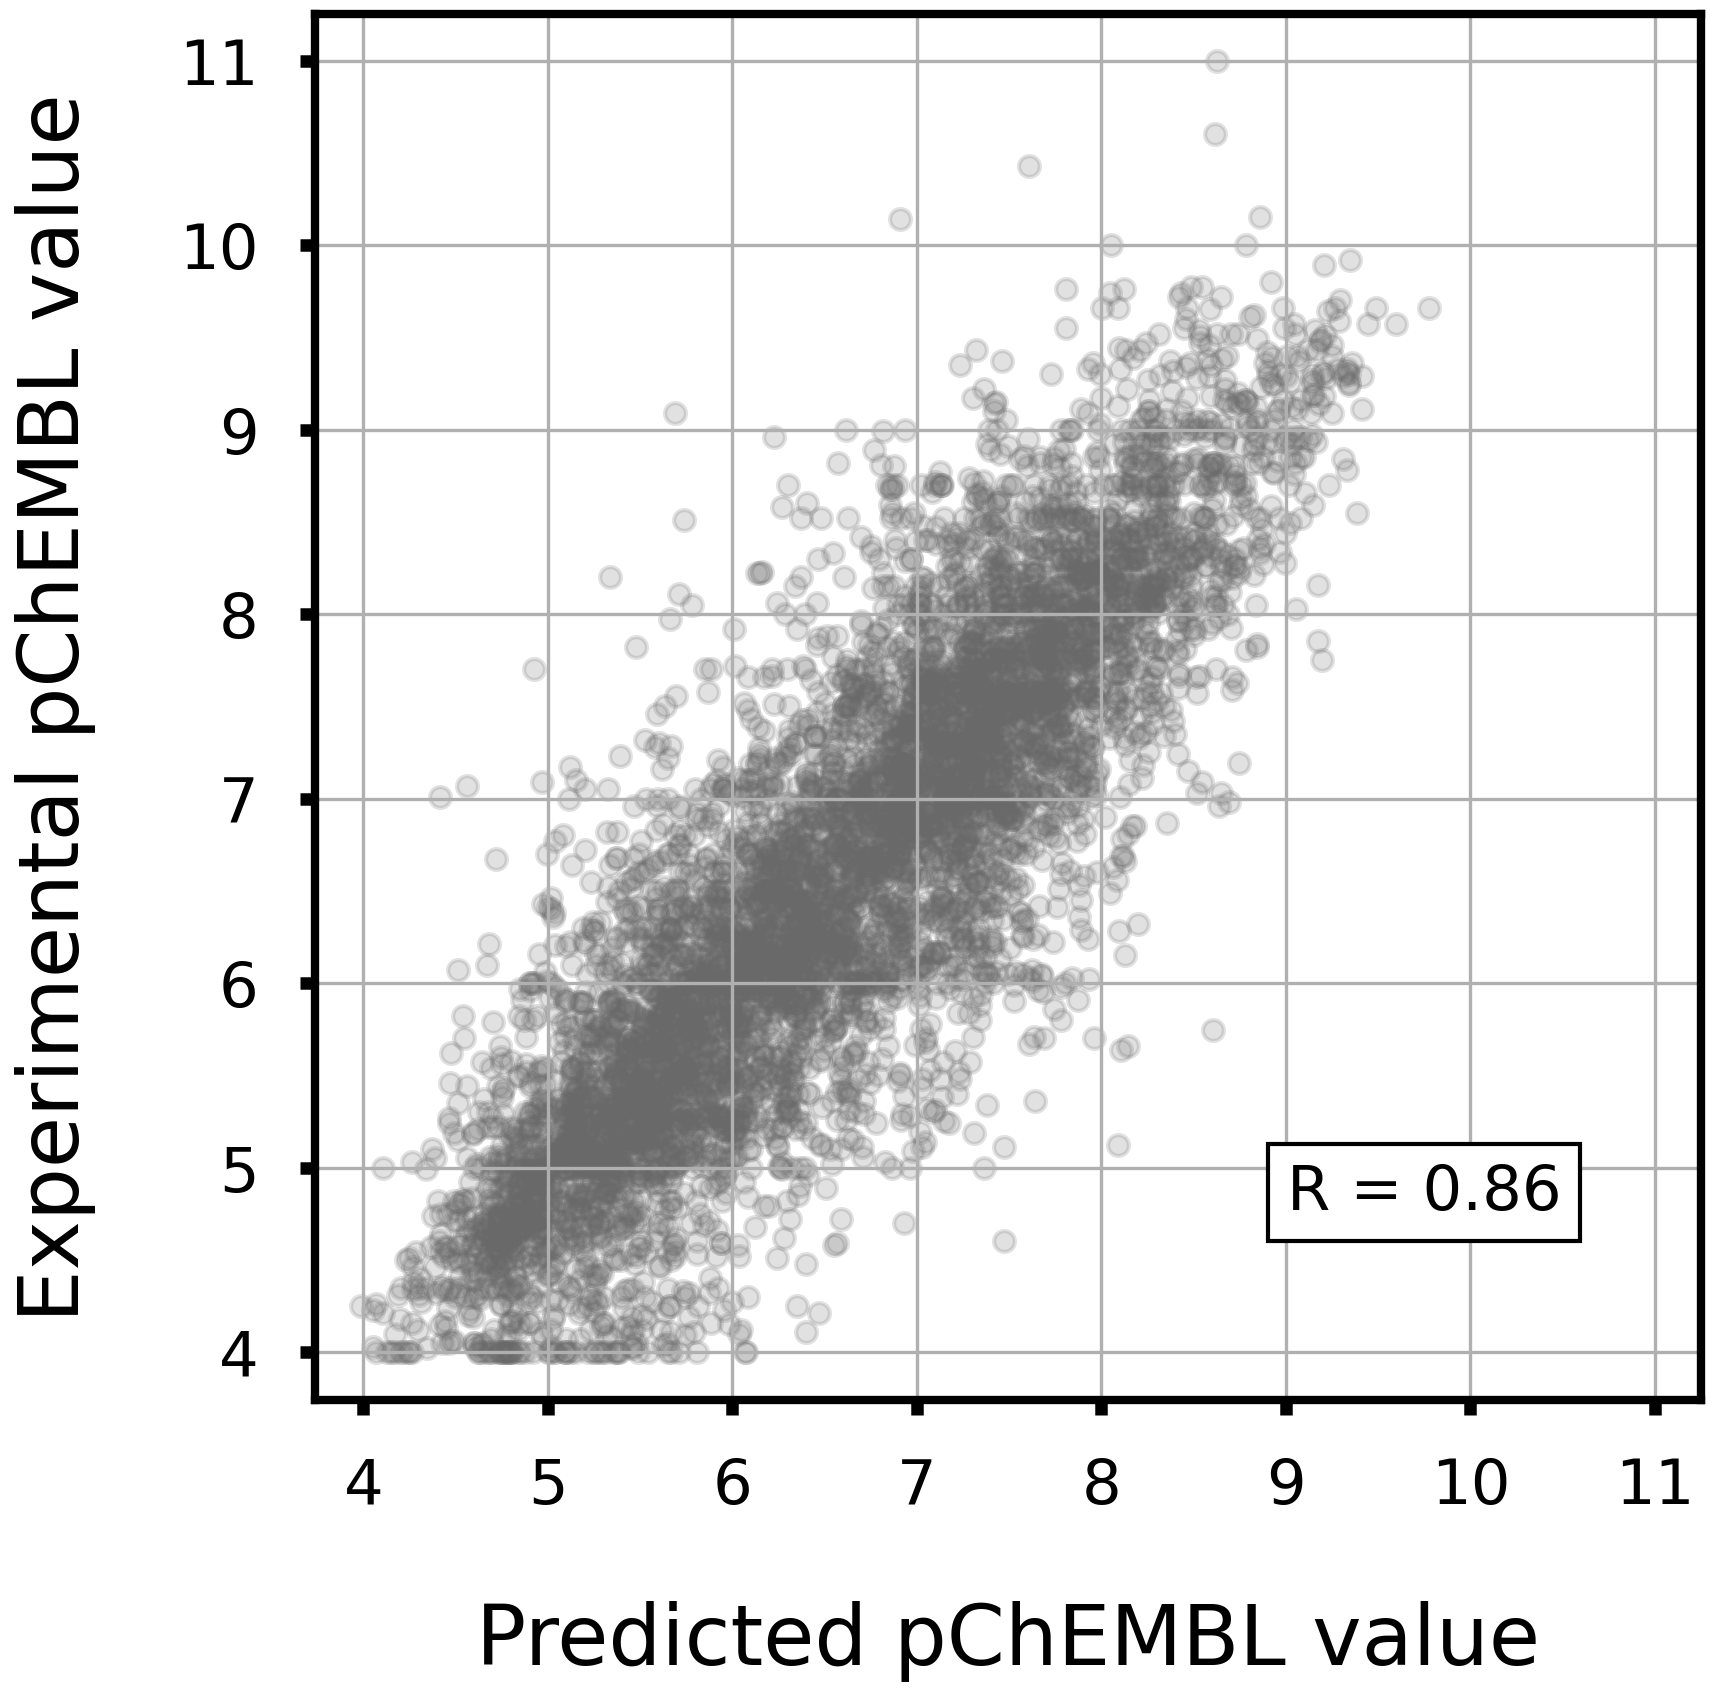
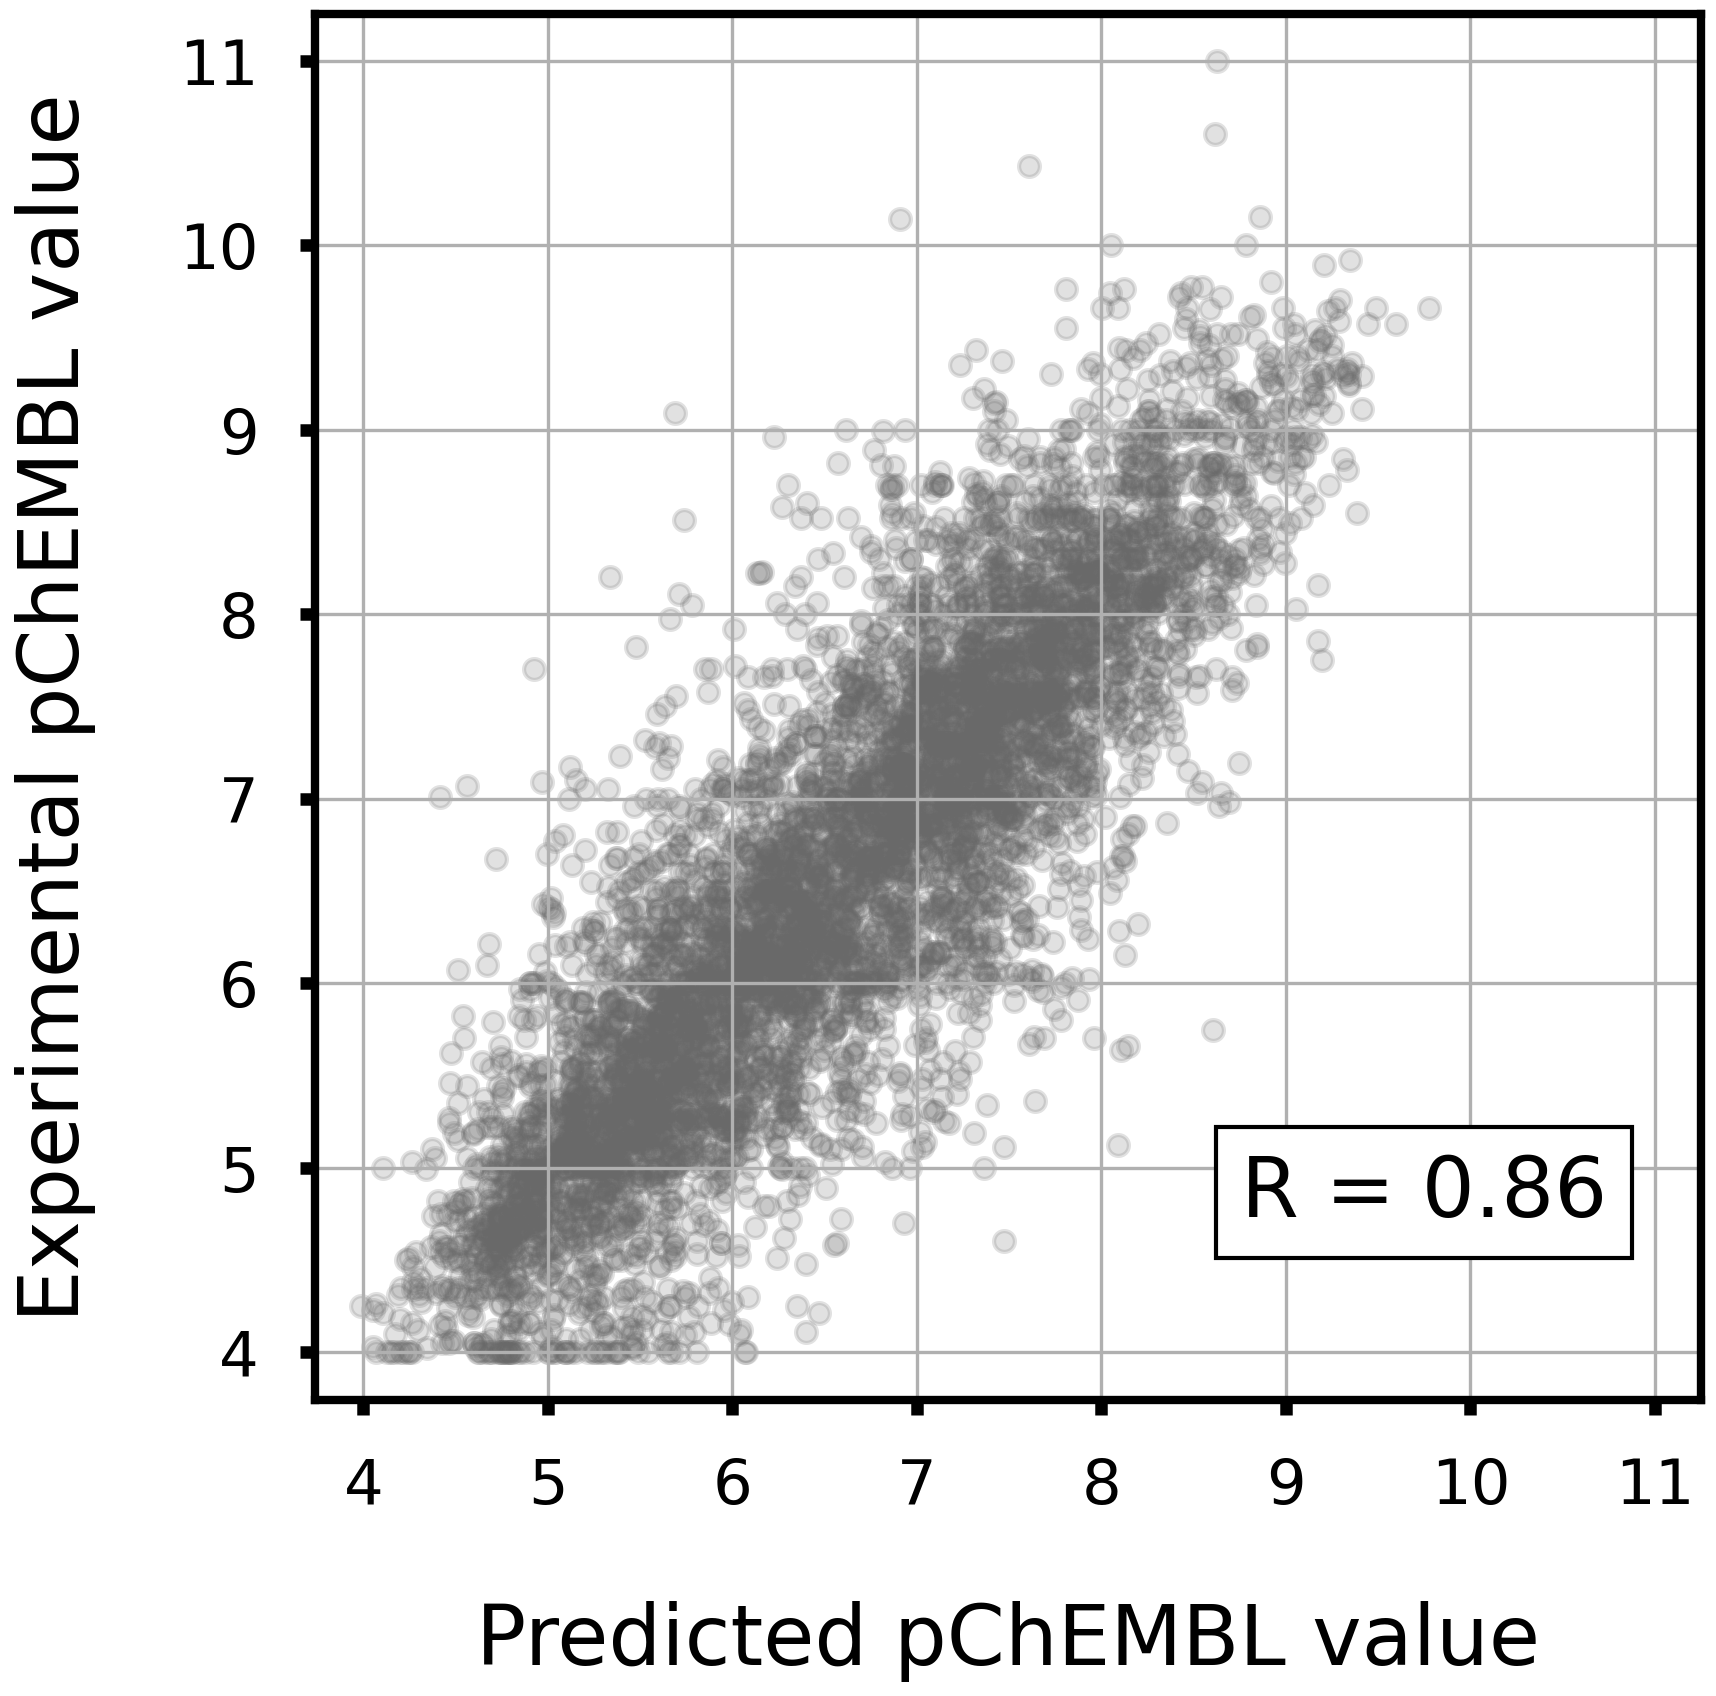
style: resize correlation coefficient labels

Changed region(s): [[0.7104, 0.6562, 0.9575, 0.75]]

diff --git a/ADMET/ChEMBL/Absorption/Caco-2/make_scatter_plot.py b/ADMET/ChEMBL/Absorption/Caco-2/make_scatter_plot.py
@@ -30,7 +30,7 @@ def make_scatter_plot(y_true, y_pred):
     ax.grid()
     ax.text(0.8, 0.15,
         f"R = {Decimal(str(corrcoef)).quantize(Decimal('0.01'), rounding=ROUND_HALF_UP)}",
-        transform=ax.transAxes, ha='center', va='center', fontsize=15,
+        transform=ax.transAxes, ha='center', va='center', fontsize=20,
         bbox=(dict(boxstyle='square', fc='white', ec='black', lw='1')))
     for axis in ['top','bottom','left','right']:
         ax.spines[axis].set_linewidth(2)

diff --git a/ADMET/ChEMBL/Metabolism/HLM/make_scatter_plot.py b/ADMET/ChEMBL/Metabolism/HLM/make_scatter_plot.py
@@ -29,7 +29,7 @@ def make_scatter_plot(y_true, y_pred):
     ax.grid()
     ax.text(0.8, 0.15,
         f"R = {Decimal(str(corrcoef)).quantize(Decimal('0.01'), rounding=ROUND_HALF_UP)}",
-        transform=ax.transAxes, ha='center', va='center', fontsize=15,
+        transform=ax.transAxes, ha='center', va='center', fontsize=20,
         bbox=(dict(boxstyle='square', fc='white', ec='black', lw='1')))
     for axis in ['top','bottom','left','right']:
         ax.spines[axis].set_linewidth(2)

diff --git a/ADMET/TDC/Absorption/Solubility/make_scatter_plot.py b/ADMET/TDC/Absorption/Solubility/make_scatter_plot.py
@@ -30,7 +30,7 @@ def make_scatter_plot(y_true, y_pred):
     ax.grid()
     ax.text(0.8, 0.15,
         f"R = {Decimal(str(corrcoef)).quantize(Decimal('0.01'), rounding=ROUND_HALF_UP)}",
-        transform=ax.transAxes, ha='center', va='center', fontsize=15,
+        transform=ax.transAxes, ha='center', va='center', fontsize=20,
         bbox=(dict(boxstyle='square', fc='white', ec='black', lw='1')))
     for axis in ['top','bottom','left','right']:
         ax.spines[axis].set_linewidth(2)

diff --git a/ADMET/TDC/Toxicity/Acute_Toxicity_LD50/make_scatter_plot.py b/ADMET/TDC/Toxicity/Acute_Toxicity_LD50/make_scatter_plot.py
@@ -30,7 +30,7 @@ def make_scatter_plot(y_true, y_pred):
     ax.grid()
     ax.text(0.8, 0.15,
         f"R = {Decimal(str(corrcoef)).quantize(Decimal('0.01'), rounding=ROUND_HALF_UP)}",
-        transform=ax.transAxes, ha='center', va='center', fontsize=15,
+        transform=ax.transAxes, ha='center', va='center', fontsize=20,
         bbox=(dict(boxstyle='square', fc='white', ec='black', lw='1')))
     for axis in ['top','bottom','left','right']:
         ax.spines[axis].set_linewidth(2)

diff --git a/affinity/ABL/make_scatter_plot.py b/affinity/ABL/make_scatter_plot.py
@@ -29,7 +29,7 @@ def make_scatter_plot(y_true, y_pred):
     ax.grid()
     ax.text(0.8, 0.15,
         f"R = {Decimal(str(corrcoef)).quantize(Decimal('0.01'), rounding=ROUND_HALF_UP)}",
-        transform=ax.transAxes, ha='center', va='center', fontsize=15,
+        transform=ax.transAxes, ha='center', va='center', fontsize=20,
         bbox=(dict(boxstyle='square', fc='white', ec='black', lw='1')))
     for axis in ['top','bottom','left','right']:
         ax.spines[axis].set_linewidth(2)

diff --git a/affinity/BACE1/make_scatter_plot.py b/affinity/BACE1/make_scatter_plot.py
@@ -30,7 +30,7 @@ def make_scatter_plot(y_true, y_pred):
     ax.grid()
     ax.text(0.8, 0.15,
         f"R = {Decimal(str(corrcoef)).quantize(Decimal('0.01'), rounding=ROUND_HALF_UP)}",
-        transform=ax.transAxes, ha='center', va='center', fontsize=15,
+        transform=ax.transAxes, ha='center', va='center', fontsize=20,
         bbox=(dict(boxstyle='square', fc='white', ec='black', lw='1')))
     for axis in ['top','bottom','left','right']:
         ax.spines[axis].set_linewidth(2)

diff --git a/affinity/EGFR/make_scatter_plot.py b/affinity/EGFR/make_scatter_plot.py
@@ -29,7 +29,7 @@ def make_scatter_plot(y_true, y_pred):
     ax.grid()
     ax.text(0.8, 0.15,
         f"R = {Decimal(str(corrcoef)).quantize(Decimal('0.01'), rounding=ROUND_HALF_UP)}",
-        transform=ax.transAxes, ha='center', va='center', fontsize=15,
+        transform=ax.transAxes, ha='center', va='center', fontsize=20,
         bbox=(dict(boxstyle='square', fc='white', ec='black', lw='1')))
     for axis in ['top','bottom','left','right']:
         ax.spines[axis].set_linewidth(2)

diff --git a/affinity/EPHB4/make_scatter_plot.py b/affinity/EPHB4/make_scatter_plot.py
@@ -29,7 +29,7 @@ def make_scatter_plot(y_true, y_pred):
     ax.grid()
     ax.text(0.8, 0.15,
         f"R = {Decimal(str(corrcoef)).quantize(Decimal('0.01'), rounding=ROUND_HALF_UP)}",
-        transform=ax.transAxes, ha='center', va='center', fontsize=15,
+        transform=ax.transAxes, ha='center', va='center', fontsize=20,
         bbox=(dict(boxstyle='square', fc='white', ec='black', lw='1')))
     for axis in ['top','bottom','left','right']:
         ax.spines[axis].set_linewidth(2)

diff --git a/affinity/ERBB2/make_scatter_plot.py b/affinity/ERBB2/make_scatter_plot.py
@@ -29,7 +29,7 @@ def make_scatter_plot(y_true, y_pred):
     ax.grid()
     ax.text(0.8, 0.15,
         f"R = {Decimal(str(corrcoef)).quantize(Decimal('0.01'), rounding=ROUND_HALF_UP)}",
-        transform=ax.transAxes, ha='center', va='center', fontsize=15,
+        transform=ax.transAxes, ha='center', va='center', fontsize=20,
         bbox=(dict(boxstyle='square', fc='white', ec='black', lw='1')))
     for axis in ['top','bottom','left','right']:
         ax.spines[axis].set_linewidth(2)

diff --git a/affinity/ERBB4/make_scatter_plot.py b/affinity/ERBB4/make_scatter_plot.py
@@ -29,7 +29,7 @@ def make_scatter_plot(y_true, y_pred):
     ax.grid()
     ax.text(0.8, 0.15,
         f"R = {Decimal(str(corrcoef)).quantize(Decimal('0.01'), rounding=ROUND_HALF_UP)}",
-        transform=ax.transAxes, ha='center', va='center', fontsize=15,
+        transform=ax.transAxes, ha='center', va='center', fontsize=20,
         bbox=(dict(boxstyle='square', fc='white', ec='black', lw='1')))
     for axis in ['top','bottom','left','right']:
         ax.spines[axis].set_linewidth(2)

diff --git a/affinity/FGFR1/make_scatter_plot.py b/affinity/FGFR1/make_scatter_plot.py
@@ -29,7 +29,7 @@ def make_scatter_plot(y_true, y_pred):
     ax.grid()
     ax.text(0.8, 0.15,
         f"R = {Decimal(str(corrcoef)).quantize(Decimal('0.01'), rounding=ROUND_HALF_UP)}",
-        transform=ax.transAxes, ha='center', va='center', fontsize=15,
+        transform=ax.transAxes, ha='center', va='center', fontsize=20,
         bbox=(dict(boxstyle='square', fc='white', ec='black', lw='1')))
     for axis in ['top','bottom','left','right']:
         ax.spines[axis].set_linewidth(2)

diff --git a/affinity/HCK/make_scatter_plot.py b/affinity/HCK/make_scatter_plot.py
@@ -29,7 +29,7 @@ def make_scatter_plot(y_true, y_pred):
     ax.grid()
     ax.text(0.8, 0.15,
         f"R = {Decimal(str(corrcoef)).quantize(Decimal('0.01'), rounding=ROUND_HALF_UP)}",
-        transform=ax.transAxes, ha='center', va='center', fontsize=15,
+        transform=ax.transAxes, ha='center', va='center', fontsize=20,
         bbox=(dict(boxstyle='square', fc='white', ec='black', lw='1')))
     for axis in ['top','bottom','left','right']:
         ax.spines[axis].set_linewidth(2)
